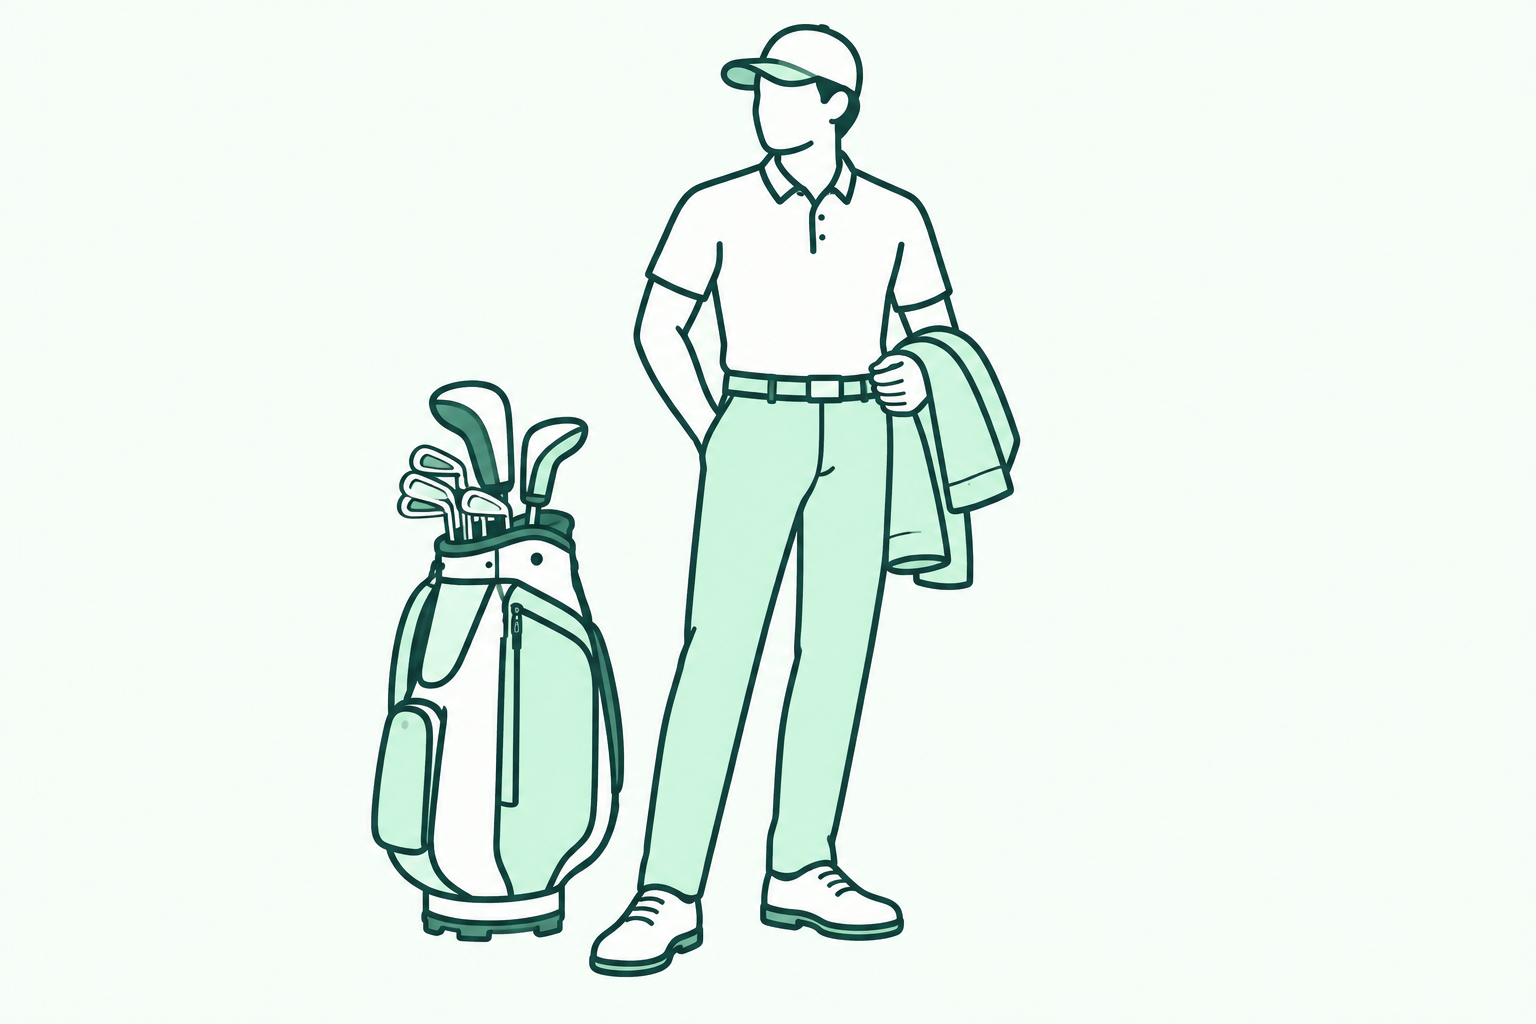
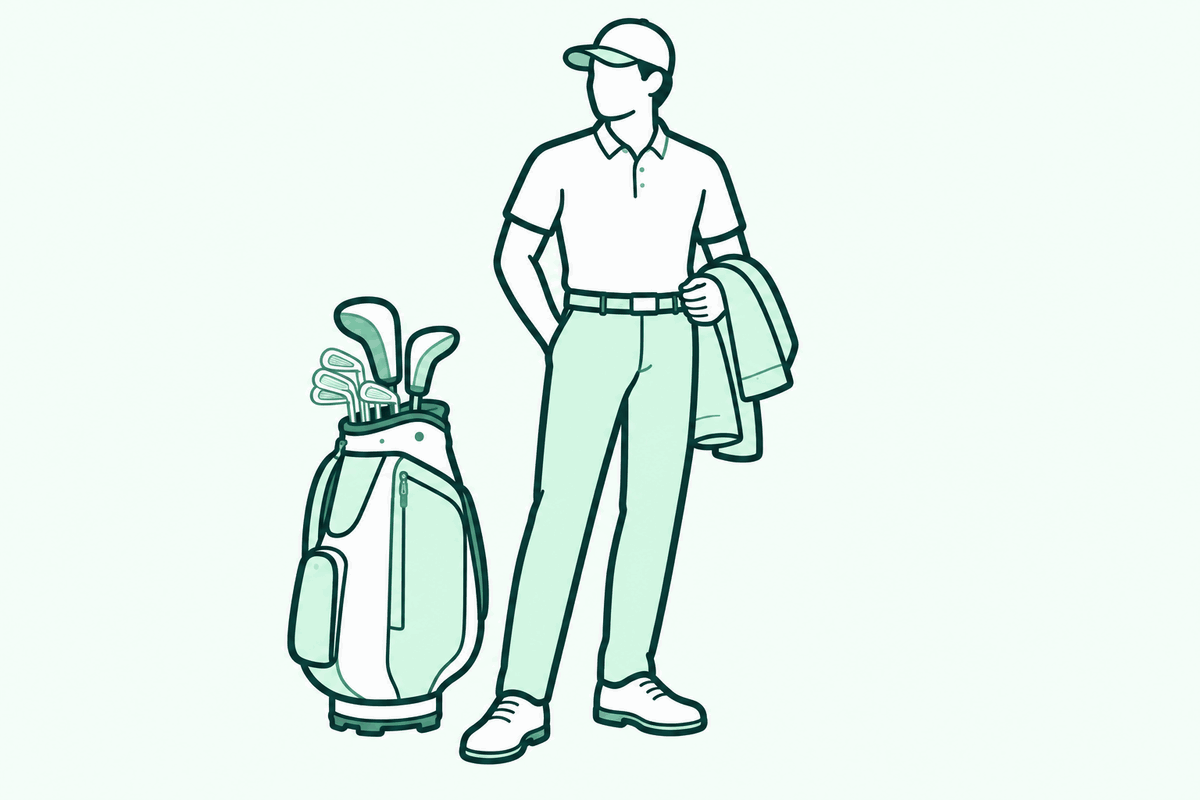
Unify three course debut illustrations

diff --git a/basic_rule_detail.html b/basic_rule_detail.html
@@ -48,7 +48,7 @@
       81:{src:"assets/minimal-guides/ready-clubs-v1.png",caption:"使いそうなクラブを数本持って球の所へ。カートとの往復を減らそう"}
     };
     function visualFor(r){return IROHA_ITEM_VISUALS[r.id]||IROHA_VISUALS.find(v=>v.keys.some(k=>String(r.title||"").includes(k)))||(typeof RuleScenes!=="undefined"?RuleScenes.select(r,"basic"):null)}
-    document.addEventListener("DOMContentLoaded",async()=>{const id=getId(),headerEl=document.getElementById("pageHeader"),contentEl=document.getElementById("content"),prevBtn=document.getElementById("prevBtn"),nextBtn=document.getElementById("nextBtn");if(!Number.isFinite(id)){contentEl.innerHTML='<div class="card"><div class="title">ページの開き方が違います</div><p class="secText">基本ルール一覧から開いてください。</p></div>';prevBtn.classList.add("disabled");nextBtn.classList.add("disabled");return}let rules=[];try{const res=await fetch("basic_rules.json?v=20260930-minimal-a1",{cache:"no-store"});rules=await res.json()}catch(e){contentEl.innerHTML='<div class="card"><div class="title">読み込みエラー</div><p class="secText">basic_rules.json を読み込めませんでした。</p></div>';return}rules=Array.isArray(rules)?rules:[];rules.sort((a,b)=>(a.id??0)-(b.id??0));const idx=rules.findIndex(r=>Number(r.id)===id);if(idx===-1){contentEl.innerHTML='<div class="card"><div class="title">そのIDの基本ルールが見つかりません</div></div>';return}const r=rules[idx],title=esc(r.title||"基本ルール"),blocks=[];headerEl.textContent=`コースデビュー「いろは」｜${r.title??"基本ルール"}`;if(r.description)blocks.push(`<div class="card"><div class="title">${title}</div><p class="secText">${esc(r.description)}</p></div>`);const visual=visualFor(r);if(visual)blocks.push(`<div class="card irohaVisual"><img src="${visual.src}?v=20261105-artwork2" alt="${title}の説明イラスト" loading="eager" decoding="async"><div class="visualCaption">🎨 ${esc(visual.caption)}</div></div>`);if(r.detail)blocks.push(`<div class="card"><div class="secTitle">📌 まず知っておこう</div><p class="secText">${esc(r.detail)}</p></div>`);if(r.procedure)blocks.push(`<div class="card"><div class="secTitle">🧭 初心者はこう動けばOK</div><p class="secText">${esc(r.procedure)}</p></div>`);if(r.penalty)blocks.push(`<div class="card"><div class="secTitle">⚠ ここに注意</div><p class="secText">${esc(r.penalty)}</p></div>`);contentEl.innerHTML=blocks.join("");const prev=rules[idx-1],next=rules[idx+1];if(prev){prevBtn.href=`basic_rule_detail.html?id=${encodeURIComponent(prev.id)}`;prevBtn.textContent=`← 前へ（${prev.title??"前"}）`}else prevBtn.classList.add("disabled");if(next){nextBtn.href=`basic_rule_detail.html?id=${encodeURIComponent(next.id)}`;nextBtn.textContent=`次へ（${next.title??"次"}） →`}else nextBtn.classList.add("disabled")});
+    document.addEventListener("DOMContentLoaded",async()=>{const id=getId(),headerEl=document.getElementById("pageHeader"),contentEl=document.getElementById("content"),prevBtn=document.getElementById("prevBtn"),nextBtn=document.getElementById("nextBtn");if(!Number.isFinite(id)){contentEl.innerHTML='<div class="card"><div class="title">ページの開き方が違います</div><p class="secText">基本ルール一覧から開いてください。</p></div>';prevBtn.classList.add("disabled");nextBtn.classList.add("disabled");return}let rules=[];try{const res=await fetch("basic_rules.json?v=20260930-minimal-a1",{cache:"no-store"});rules=await res.json()}catch(e){contentEl.innerHTML='<div class="card"><div class="title">読み込みエラー</div><p class="secText">basic_rules.json を読み込めませんでした。</p></div>';return}rules=Array.isArray(rules)?rules:[];rules.sort((a,b)=>(a.id??0)-(b.id??0));const idx=rules.findIndex(r=>Number(r.id)===id);if(idx===-1){contentEl.innerHTML='<div class="card"><div class="title">そのIDの基本ルールが見つかりません</div></div>';return}const r=rules[idx],title=esc(r.title||"基本ルール"),blocks=[];headerEl.textContent=`コースデビュー「いろは」｜${r.title??"基本ルール"}`;if(r.description)blocks.push(`<div class="card"><div class="title">${title}</div><p class="secText">${esc(r.description)}</p></div>`);const visual=visualFor(r);if(visual)blocks.push(`<div class="card irohaVisual"><img src="${visual.src}?v=20261105-iroha3" alt="${title}の説明イラスト" loading="eager" decoding="async"><div class="visualCaption">🎨 ${esc(visual.caption)}</div></div>`);if(r.detail)blocks.push(`<div class="card"><div class="secTitle">📌 まず知っておこう</div><p class="secText">${esc(r.detail)}</p></div>`);if(r.procedure)blocks.push(`<div class="card"><div class="secTitle">🧭 初心者はこう動けばOK</div><p class="secText">${esc(r.procedure)}</p></div>`);if(r.penalty)blocks.push(`<div class="card"><div class="secTitle">⚠ ここに注意</div><p class="secText">${esc(r.penalty)}</p></div>`);contentEl.innerHTML=blocks.join("");const prev=rules[idx-1],next=rules[idx+1];if(prev){prevBtn.href=`basic_rule_detail.html?id=${encodeURIComponent(prev.id)}`;prevBtn.textContent=`← 前へ（${prev.title??"前"}）`}else prevBtn.classList.add("disabled");if(next){nextBtn.href=`basic_rule_detail.html?id=${encodeURIComponent(next.id)}`;nextBtn.textContent=`次へ（${next.title??"次"}） →`}else nextBtn.classList.add("disabled")});
   </script>
 </body>
 </html>
